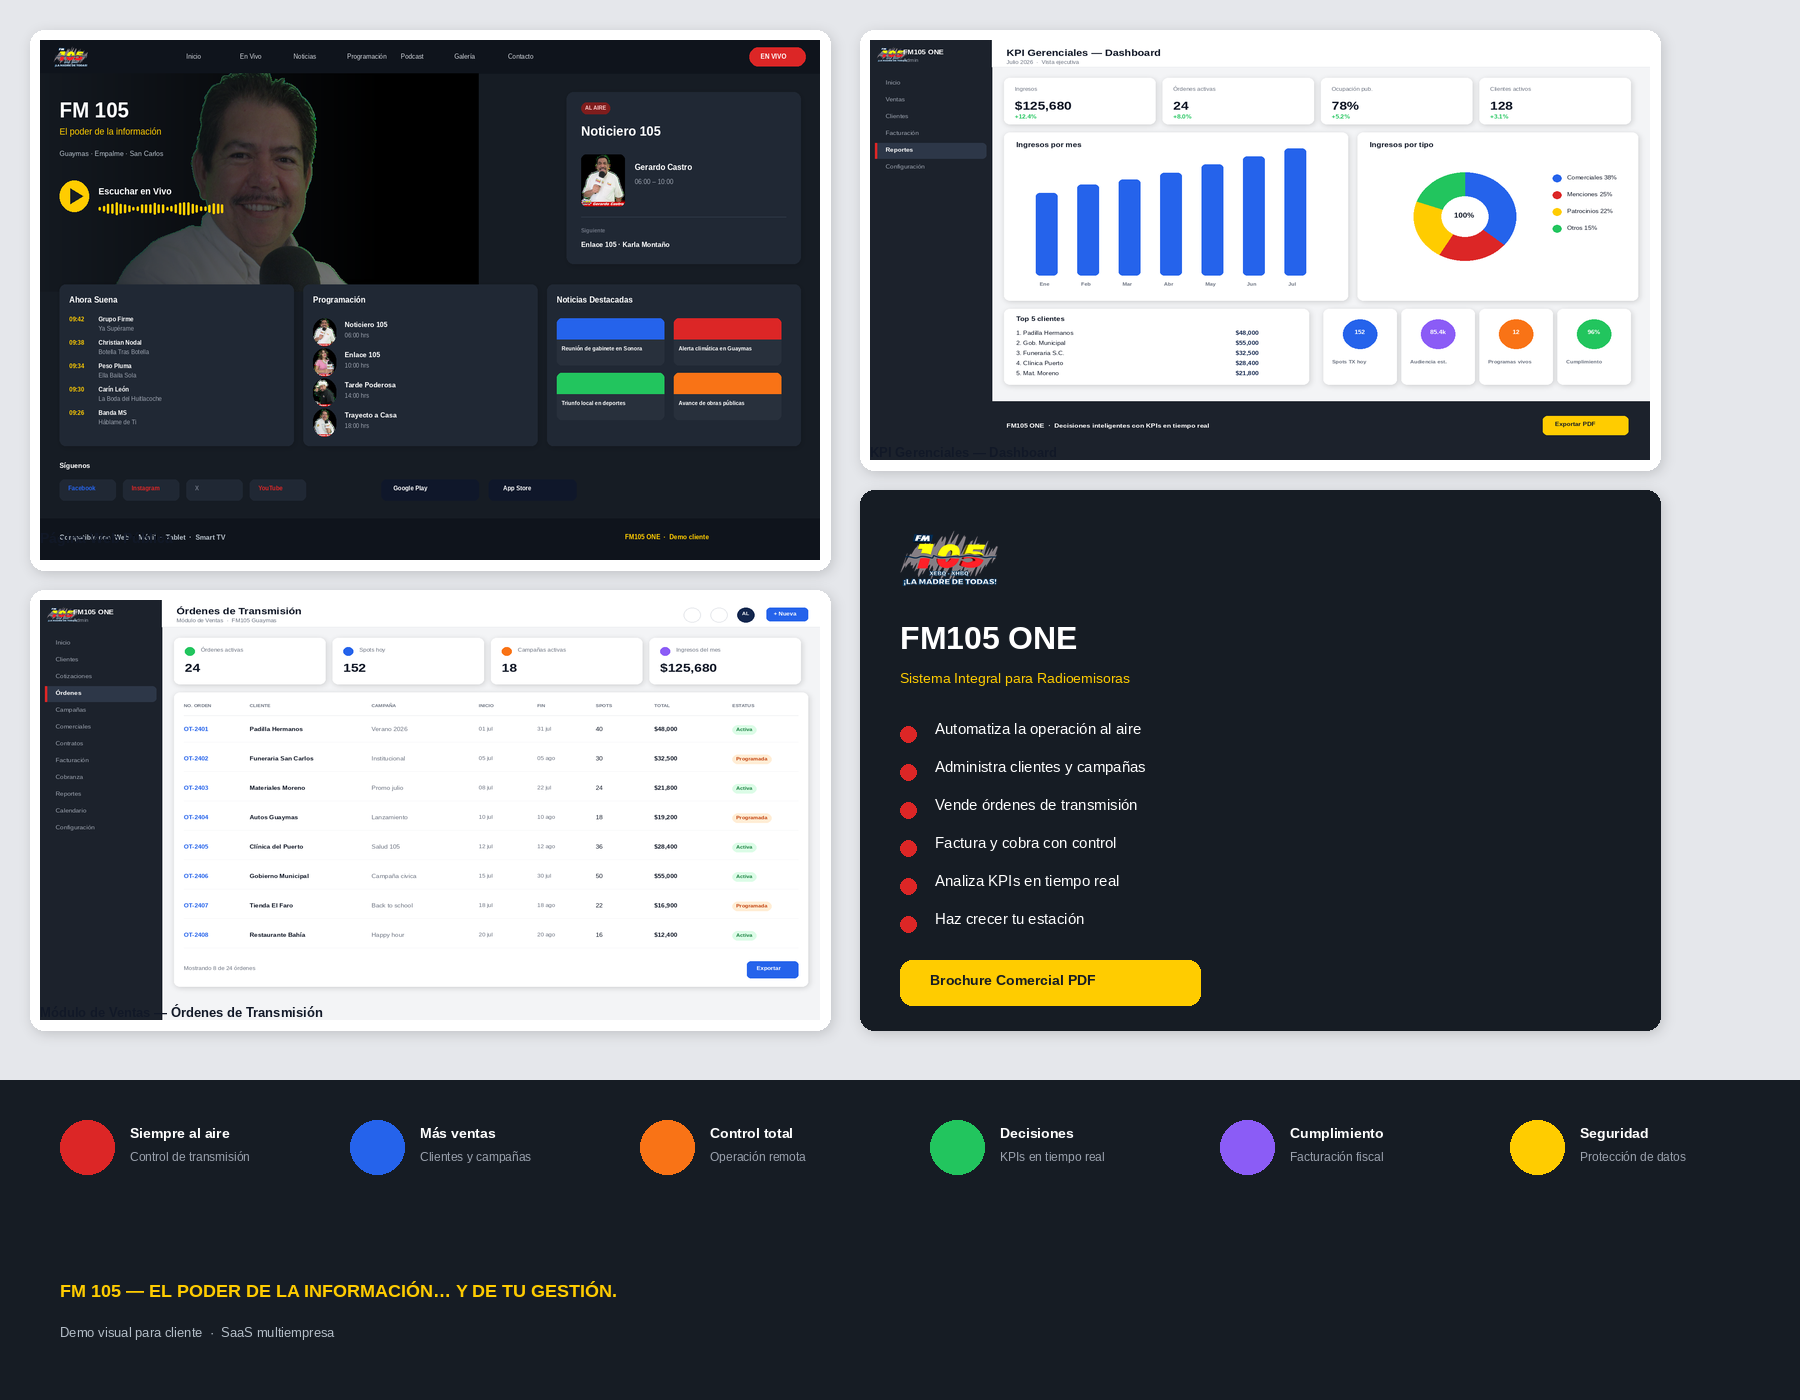
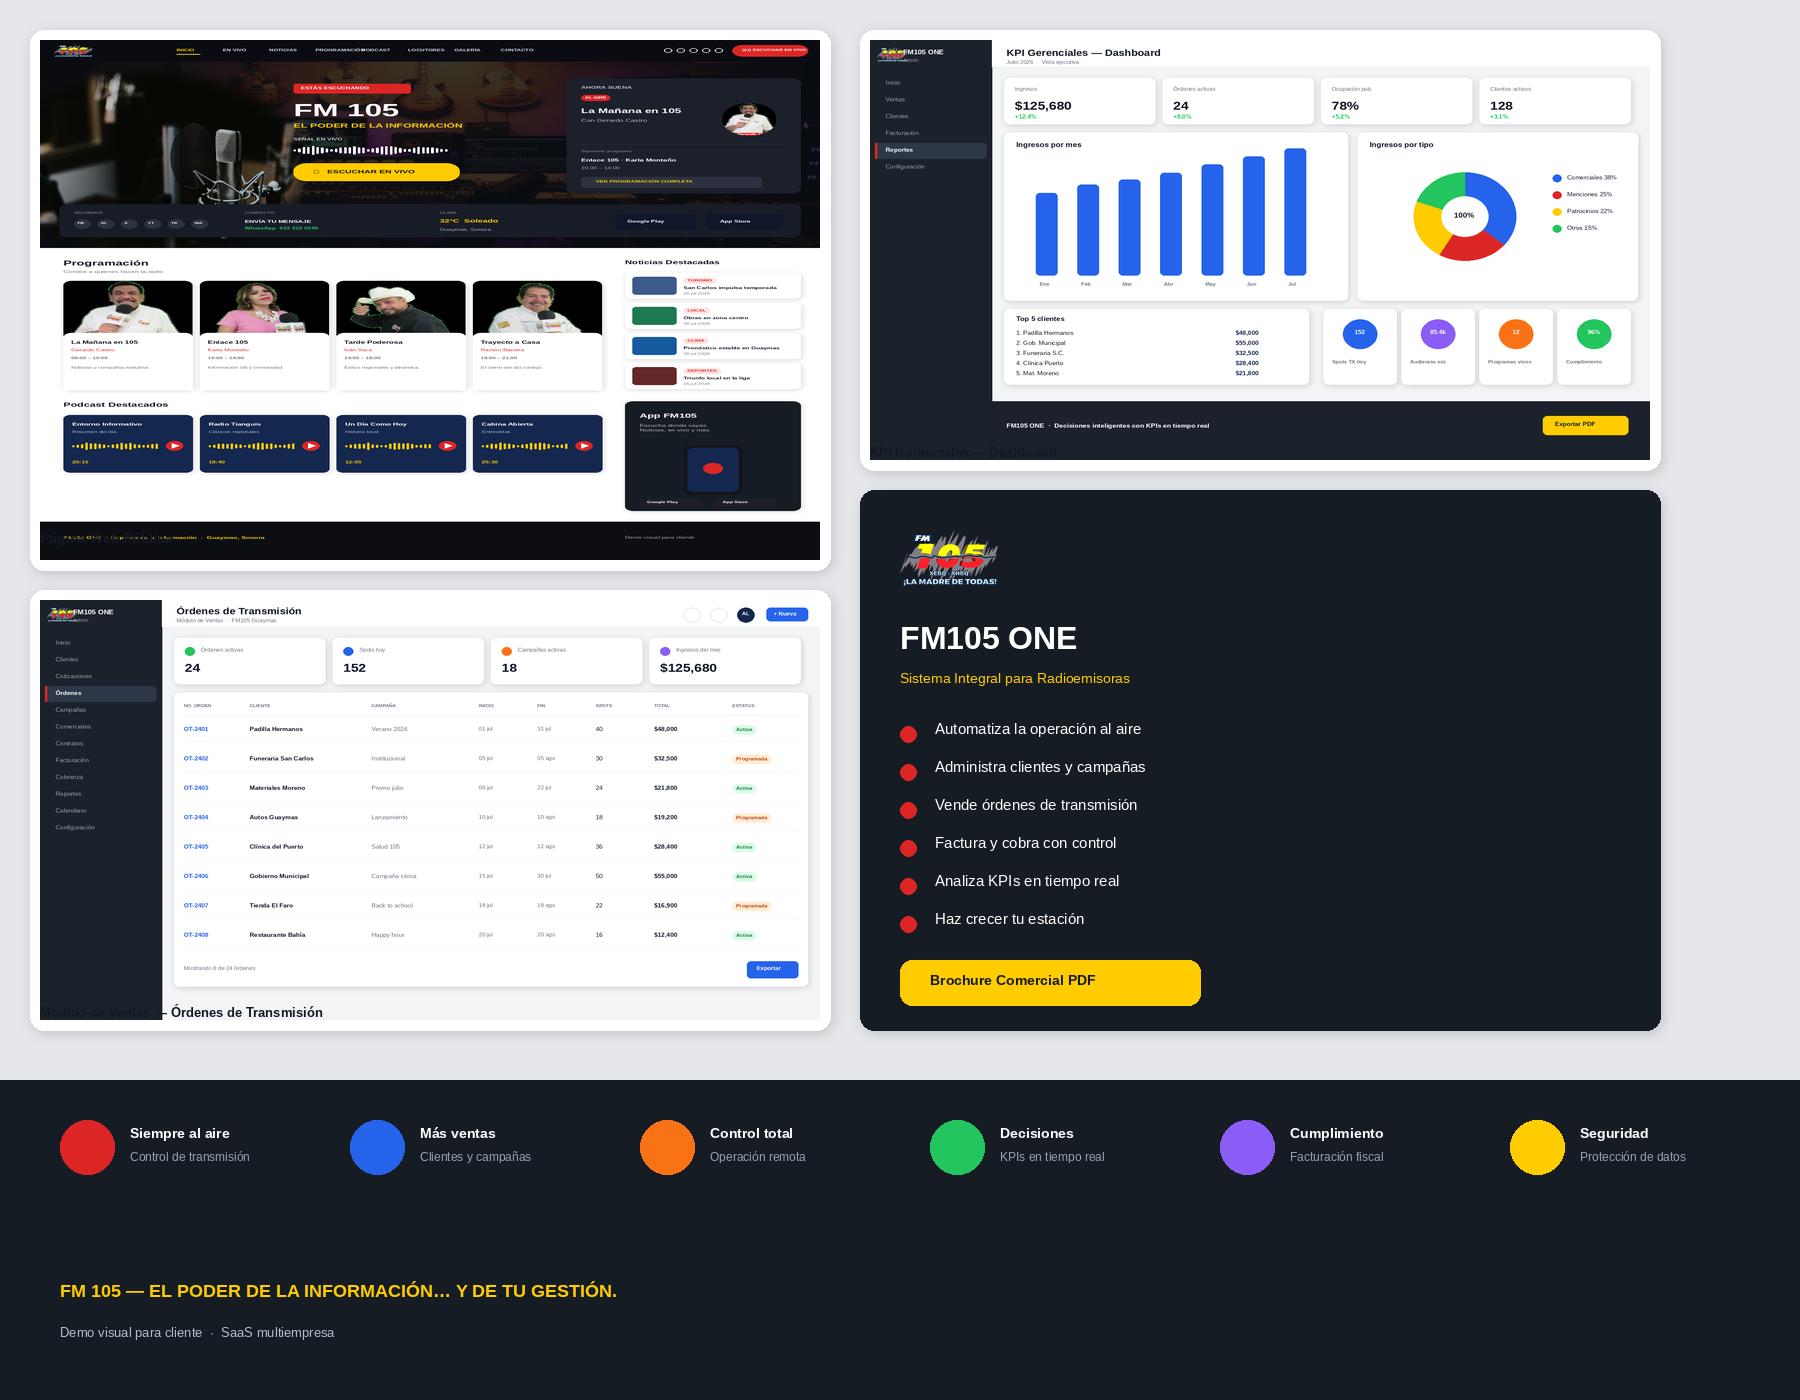
Match public portal demo to ChatGPT landing mockup
Recreate dark hero with studio/mic, Ahora Suena card, mid utility
bar, programming cards, news, podcasts, and app promo section.

Changed region(s): [[0.0, 0.0307, 0.4667, 0.3993], [0.4044, 0.0307, 0.4667, 0.0921]]

diff --git a/scripts/generar_demos_cliente.py b/scripts/generar_demos_cliente.py
@@ -137,130 +137,183 @@ def sidebar_admin(im, active, items):
 # 01 PÁGINA WEB PÚBLICA (tema oscuro ChatGPT)
 # ═══════════════════════════════════════════════
 def demo_portal():
-    im = Image.new("RGBA", (W, H), DARK)
+    """Réplica visual de la landing ChatGPT: hero oscuro + barra media + sección blanca."""
+    PW, PH = 1600, 1900
+    im = Image.new("RGBA", (PW, PH), (12, 14, 20))
+
+    # —— fondo estudio (mezcladora) ——
+    studio = Image.open(ASSETS / "studio-bg.jpg").convert("RGBA")
+    studio = studio.resize((PW, 820), Image.Resampling.LANCZOS)
+    studio = ImageEnhance.Brightness(studio).enhance(0.45)
+    studio = studio.filter(ImageFilter.GaussianBlur(1.2))
+    im.paste(studio, (0, 0))
+    # vineta oscura
+    veil = Image.new("RGBA", (PW, 820), (8, 10, 16, 140))
+    im.alpha_composite(veil, (0, 0))
+
+    # micrófono grande a la izquierda
+    mic = Image.open(ASSETS / "mic-bg.jpg").convert("RGBA")
+    mic = mic.resize((620, 720), Image.Resampling.LANCZOS)
+    mic = ImageEnhance.Brightness(mic).enhance(0.85)
+    # fade edges
+    mask = Image.new("L", mic.size, 0)
+    md = ImageDraw.Draw(mask)
+    md.ellipse((-40, 40, 580, 700), fill=255)
+    mask = mask.filter(ImageFilter.GaussianBlur(18))
+    im.paste(mic, (-40, 80), mask)
+
     d = ImageDraw.Draw(im)
 
-    # top nav
-    d.rectangle((0, 0, W, 64), fill=(15, 20, 28))
-    lg = logo(40)
-    im.paste(lg, (28, 12), lg)
-    nav = ["Inicio", "En Vivo", "Noticias", "Programación", "Podcast", "Galería", "Contacto"]
-    x = 300
+    # —— HEADER ——
+    d.rectangle((0, 0, PW, 78), fill=(10, 12, 18, 230))
+    lg = logo(46)
+    im.paste(lg, (28, 16), lg)
+    d = ImageDraw.Draw(im)
+    nav = ["INICIO", "EN VIVO", "NOTICIAS", "PROGRAMACIÓN", "PODCAST", "LOCUTORES", "GALERÍA", "CONTACTO"]
+    x = 280
     for n in nav:
-        d.text((x, 24), n, font=F(13), fill=(209, 213, 219))
-        x += 110
-    rr(d, (1455, 14, 1570, 50), 18, RED)
-    d.text((1478, 24), "EN VIVO", font=F(13, True), fill=WHITE)
+        col = YELLOW if n == "INICIO" else (220, 225, 235)
+        d.text((x, 30), n, font=F(12, True), fill=col)
+        if n == "INICIO":
+            d.line((x, 52, x + 48, 52), fill=YELLOW, width=3)
+        x += 95
+    # social dots
+    for i in range(5):
+        d.ellipse((1280 + i * 26, 30, 1296 + i * 26, 46), outline=WHITE, width=2)
+    rr(d, (1420, 18, 1575, 60), 22, RED)
+    d.text((1440, 30), "((•)) ESCUCHAR EN VIVO", font=F(11, True), fill=WHITE)
 
-    # HERO con micrófono (crop de locutor con mic)
-    hero = talent("ramon-barrera.png", (900, 420))
-    # darken and focus
-    hero = ImageEnhance.Brightness(hero).enhance(0.55)
-    paste_r(im, hero, (0, 64), 0)
-    # left gradient panel
-    for i in range(700):
-        a = int(230 * (1 - i / 700))
-        if a > 0:
-            overlay = Image.new("RGBA", (1, 420), (*DARK, a))
-            im.paste(overlay, (i, 64), overlay)
+    # —— HERO copy ——
+    rr(d, (520, 160, 760, 195), 6, RED)
+    d.text((535, 168), "ESTÁS ESCUCHANDO", font=F(13, True), fill=WHITE)
+    d.text((520, 220), "FM 105", font=F(64, True), fill=WHITE)
+    d.text((520, 300), "EL PODER DE LA INFORMACIÓN", font=F(22, True), fill=YELLOW)
+    d.text((520, 355), "SEÑAL EN VIVO", font=F(13, True), fill=(200, 210, 220))
+    wave(d, 520, 385, 320, 36, WHITE, 34)
+    rr(d, (520, 450, 860, 515), 28, YELLOW)
+    d.text((560, 470), "▶   ESCUCHAR EN VIVO", font=F(18, True), fill=(20, 20, 28))
 
+    # —— AHORA SUENA card ——
+    card(im, (1080, 140, 1560, 560), 18, (28, 32, 42))
     d = ImageDraw.Draw(im)
-    d.text((40, 110), "FM 105", font=F(42, True), fill=WHITE)
-    d.text((40, 165), "El poder de la información", font=F(18), fill=YELLOW)
-    d.text((40, 210), "Guaymas · Empalme · San Carlos", font=F(14), fill=(180, 190, 200))
-
-    # play + waveform
-    d.ellipse((40, 270, 100, 330), fill=YELLOW)
-    d.polygon([(62, 285), (62, 315), (88, 300)], fill=DARK)
-    d.text((120, 280), "Escuchar en Vivo", font=F(18, True), fill=WHITE)
-    wave(d, 120, 310, 260, 28, YELLOW, 30)
-
-    # Al Aire card (derecha)
-    card(im, (1080, 100, 1560, 430), 14, DARK2)
+    d.text((1110, 165), "AHORA SUENA", font=F(14, True), fill=(180, 190, 200))
+    pill(d, 1110, 200, "AL AIRE", RED, WHITE)
+    d.text((1110, 245), "La Mañana en 105", font=F(24, True), fill=WHITE)
+    d.text((1110, 285), "Con Gerardo Castro", font=F(15), fill=(180, 190, 200))
+    t = talent("gerardo-castro.png", (110, 120))
+    paste_r(im, t, (1400, 230), 55)
     d = ImageDraw.Draw(im)
-    pill(d, 1110, 120, "AL AIRE", (127, 29, 29), (254, 202, 202))
-    d.text((1110, 160), "Noticiero 105", font=F(26, True), fill=WHITE)
-    t = talent("gerardo-castro.png", (90, 100))
-    paste_r(im, t, (1110, 220), 10)
-    d = ImageDraw.Draw(im)
-    d.text((1220, 235), "Gerardo Castro", font=F(16, True), fill=WHITE)
-    d.text((1220, 265), "06:00 – 10:00", font=F(13), fill=(156, 163, 175))
-    d.line((1110, 340, 1530, 340), fill=(55, 65, 80))
-    d.text((1110, 360), "Siguiente", font=F(11, True), fill=MUTED)
-    d.text((1110, 385), "Enlace 105 · Karla Montaño", font=F(14, True), fill=WHITE)
+    d.line((1110, 380, 1530, 380), fill=(55, 60, 75))
+    d.text((1110, 400), "Siguiente programa", font=F(11, True), fill=MUTED)
+    d.text((1110, 430), "Enlace 105 · Karla Montaño", font=F(15, True), fill=WHITE)
+    d.text((1110, 460), "10:00 – 14:00", font=F(13), fill=(160, 170, 185))
+    rr(d, (1110, 500, 1480, 540), 10, (45, 50, 65))
+    d.text((1140, 510), "VER PROGRAMACIÓN COMPLETA", font=F(12, True), fill=YELLOW)
 
-    # Ahora Suena
-    card(im, (40, 470, 520, 780), 12, DARK2)
+    # —— barra media interactiva ——
+    card(im, (40, 600, 1560, 720), 16, (24, 28, 38))
     d = ImageDraw.Draw(im)
-    d.text((60, 490), "Ahora Suena", font=F(16, True), fill=WHITE)
-    songs = [
-        ("09:42", "Grupo Firme", "Ya Supérame"),
-        ("09:38", "Christian Nodal", "Botella Tras Botella"),
-        ("09:34", "Peso Pluma", "Ella Baila Sola"),
-        ("09:30", "Carín León", "La Boda del Huitlacoche"),
-        ("09:26", "Banda MS", "Háblame de Ti"),
-    ]
-    y = 530
-    for tm, art, title in songs:
-        d.text((60, y), tm, font=F(12, True), fill=YELLOW)
-        d.text((120, y), art, font=F(12, True), fill=WHITE)
-        d.text((120, y + 18), title, font=F(12), fill=(156, 163, 175))
-        y += 45
+    d.text((70, 625), "SÍGUENOS", font=F(11, True), fill=MUTED)
+    for i, lab in enumerate(["FB", "IG", "X", "YT", "TK", "WA"]):
+        x = 70 + i * 48
+        d.ellipse((x, 655, x + 34, 689), fill=(45, 50, 65))
+        d.text((x + 7, 662), lab, font=F(10, True), fill=WHITE)
+
+    d.text((420, 625), "CONTACTO", font=F(11, True), fill=MUTED)
+    d.text((420, 655), "ENVÍA TU MENSAJE", font=F(14, True), fill=WHITE)
+    d.text((420, 680), "WhatsApp  622 222 0286", font=F(13, True), fill=GREEN)
+
+    d.text((820, 625), "CLIMA", font=F(11, True), fill=MUTED)
+    d.text((820, 650), "32°C  Soleado", font=F(18, True), fill=YELLOW)
+    d.text((820, 685), "Guaymas, Sonora", font=F(13), fill=(180, 190, 200))
+
+    rr(d, (1180, 635, 1345, 690), 10, (15, 23, 42))
+    d.text((1205, 655), "Google Play", font=F(13, True), fill=WHITE)
+    rr(d, (1365, 635, 1525, 690), 10, (15, 23, 42))
+    d.text((1395, 655), "App Store", font=F(13, True), fill=WHITE)
+
+    # —— sección blanca inferior ——
+    d.rectangle((0, 760, PW, PH), fill=WHITE)
 
     # Programación
-    card(im, (540, 470, 1020, 780), 12, DARK2)
-    d = ImageDraw.Draw(im)
-    d.text((560, 490), "Programación", font=F(16, True), fill=WHITE)
+    d.text((48, 800), "Programación", font=F(26, True), fill=INK)
+    d.text((48, 838), "Conoce a quienes hacen la radio", font=F(14), fill=MUTED)
     progs = [
-        ("gerardo-castro.png", "Noticiero 105", "06:00"),
-        ("karla-montano.png", "Enlace 105", "10:00"),
-        ("ivan-vaca.png", "Tarde Poderosa", "14:00"),
-        ("ramon-barrera.png", "Trayecto a Casa", "18:00"),
+        ("gerardo-castro.png", "La Mañana en 105", "Gerardo Castro", "06:00 – 10:00", "Noticias y compañía matutina."),
+        ("karla-montano.png", "Enlace 105", "Karla Montaño", "10:00 – 14:00", "Información útil y comunidad."),
+        ("ivan-vaca.png", "Tarde Poderosa", "Iván Vaca", "14:00 – 18:00", "Éxitos regionales y dinámica."),
+        ("ramon-barrera.png", "Trayecto a Casa", "Ramón Barrera", "18:00 – 21:00", "El cierre del día contigo."),
     ]
-    y = 535
-    for f, title, hour in progs:
-        t = talent(f, (48, 54))
-        paste_r(im, t, (560, y), 24)
+    for i, (f, title, host, hour, desc) in enumerate(progs):
+        x = 48 + i * 280
+        card(im, (x, 880, x + 265, 1280), 16, WHITE)
+        # photo area
+        t = talent(f, (265, 240))
+        paste_r(im, t, (x, 880), 16)
+        # cover bottom of photo round
         d = ImageDraw.Draw(im)
-        d.text((625, y + 4), title, font=F(14, True), fill=WHITE)
-        d.text((625, y + 26), hour + " hrs", font=F(12), fill=(156, 163, 175))
-        y += 58
+        d.rectangle((x, 1080, x + 265, 1280), fill=WHITE)
+        rr(d, (x, 1070, x + 265, 1280), 16, WHITE)
+        d.text((x + 16, 1095), title, font=F(16, True), fill=INK)
+        d.text((x + 16, 1125), host, font=F(13), fill=RED)
+        d.text((x + 16, 1155), hour, font=F(12, True), fill=MUTED)
+        d.text((x + 16, 1190), desc, font=F(12), fill=MUTED)
 
-    # Noticias
-    card(im, (1040, 470, 1560, 780), 12, DARK2)
-    d = ImageDraw.Draw(im)
-    d.text((1060, 490), "Noticias Destacadas", font=F(16, True), fill=WHITE)
+    # Noticias (derecha)
+    d.text((1200, 800), "Noticias Destacadas", font=F(20, True), fill=INK)
     news = [
-        (BLUE, "Reunión de gabinete en Sonora"),
-        (RED, "Alerta climática en Guaymas"),
-        (GREEN, "Triunfo local en deportes"),
-        (ORANGE, "Avance de obras públicas"),
+        ((60, 90, 140), "TURISMO", "San Carlos impulsa temporada"),
+        ((30, 120, 80), "LOCAL", "Obras en zona centro"),
+        ((20, 90, 160), "CLIMA", "Pronóstico estable en Guaymas"),
+        ((100, 40, 40), "DEPORTES", "Triunfo local en la liga"),
     ]
-    for i, (col, title) in enumerate(news):
-        col_i, row = i % 2, i // 2
-        x1 = 1060 + col_i * 240
-        y1 = 535 + row * 105
-        rr(d, (x1, y1, x1 + 220, y1 + 90), 10, (40, 48, 60))
-        rr(d, (x1, y1, x1 + 220, y1 + 40), 10, col)
-        d.rectangle((x1, y1 + 20, x1 + 220, y1 + 40), fill=col)
-        d.text((x1 + 10, y1 + 52), title, font=F(11, True), fill=WHITE)
+    y = 850
+    for col, tag, title in news:
+        card(im, (1200, y, 1560, y + 95), 12)
+        d = ImageDraw.Draw(im)
+        rr(d, (1215, y + 15, 1305, y + 80), 8, col)
+        pill(d, 1320, y + 18, tag, (254, 226, 226), RED)
+        d.text((1320, y + 48), title, font=F(13, True), fill=INK)
+        d.text((1320, y + 70), "25 jul 2026", font=F(11), fill=MUTED)
+        y += 110
 
-    # Social + apps
-    d.text((40, 810), "Síguenos", font=F(14, True), fill=WHITE)
-    for i, (name, col) in enumerate([("Facebook", BLUE), ("Instagram", RED), ("X", MUTED), ("YouTube", RED)]):
-        x = 40 + i * 130
-        rr(d, (x, 845, x + 115, 885), 10, DARK2)
-        d.text((x + 18, 855), name, font=F(12, True), fill=col)
+    # Podcasts
+    d = ImageDraw.Draw(im)
+    d.text((48, 1320), "Podcast Destacados", font=F(22, True), fill=INK)
+    for i, (title, sub, dur) in enumerate([
+        ("Entorno Informativo", "Resumen del día", "20:15"),
+        ("Radio Tianguis", "Clásicos regionales", "18:40"),
+        ("Un Día Como Hoy", "Historia local", "12:05"),
+        ("Cabina Abierta", "Entrevistas", "25:30"),
+    ]):
+        x = 48 + i * 280
+        card(im, (x, 1370, x + 265, 1580), 14, NAVY)
+        d = ImageDraw.Draw(im)
+        d.text((x + 18, 1395), title, font=F(15, True), fill=WHITE)
+        d.text((x + 18, 1425), sub, font=F(12), fill=(180, 190, 210))
+        wave(d, x + 18, 1470, 180, 28, YELLOW, 20)
+        d.ellipse((x + 210, 1465, x + 245, 1500), fill=RED)
+        d.polygon([(x + 222, 1473), (x + 222, 1492), (x + 238, 1482)], fill=WHITE)
+        d.text((x + 18, 1535), dur, font=F(13, True), fill=YELLOW)
 
-    rr(d, (700, 845, 900, 885), 10, (15, 23, 42))
-    d.text((725, 855), "Google Play", font=F(12, True), fill=WHITE)
-    rr(d, (920, 845, 1100, 885), 10, (15, 23, 42))
-    d.text((950, 855), "App Store", font=F(12, True), fill=WHITE)
+    # App promo card
+    card(im, (1200, 1320, 1560, 1720), 16, DARK)
+    d = ImageDraw.Draw(im)
+    d.text((1230, 1360), "App FM105", font=F(22, True), fill=WHITE)
+    d.text((1230, 1400), "Escucha donde vayas.\nNoticias, en vivo y más.", font=F(14), fill=(180, 190, 200))
+    # phone mini
+    rr(d, (1320, 1480, 1440, 1660), 18, (20, 20, 28))
+    rr(d, (1328, 1490, 1432, 1650), 14, NAVY)
+    d.ellipse((1360, 1545, 1400, 1585), fill=RED)
+    rr(d, (1230, 1675, 1360, 1705), 8, (30, 30, 40))
+    d.text((1245, 1682), "Google Play", font=F(11, True), fill=WHITE)
+    rr(d, (1380, 1675, 1510, 1705), 8, (30, 30, 40))
+    d.text((1400, 1682), "App Store", font=F(11, True), fill=WHITE)
 
-    # footer devices
-    d.rectangle((0, 920, W, H), fill=(15, 20, 28))
-    d.text((40, 948), "Compatible con  Web  ·  Móvil  ·  Tablet  ·  Smart TV", font=F(14, True), fill=(180, 190, 200))
-    d.text((1200, 948), "FM105 ONE  ·  Demo cliente", font=F(13, True), fill=YELLOW)
+    # footer
+    d.rectangle((0, 1760, PW, PH), fill=(12, 14, 20))
+    d.text((48, 1810), "FM105 ONE  ·  El poder de la información  ·  Guaymas, Sonora", font=F(14, True), fill=YELLOW)
+    d.text((1200, 1810), "Demo visual para cliente", font=F(13), fill=(160, 170, 185))
 
     save(im, "01-portal-publico.png")
 
